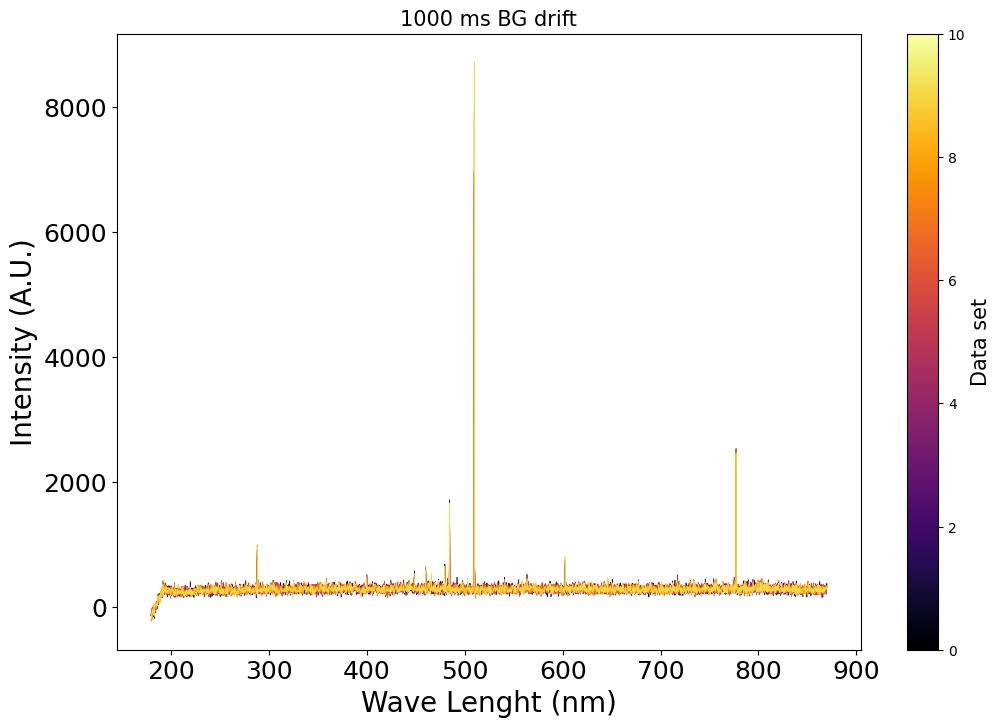
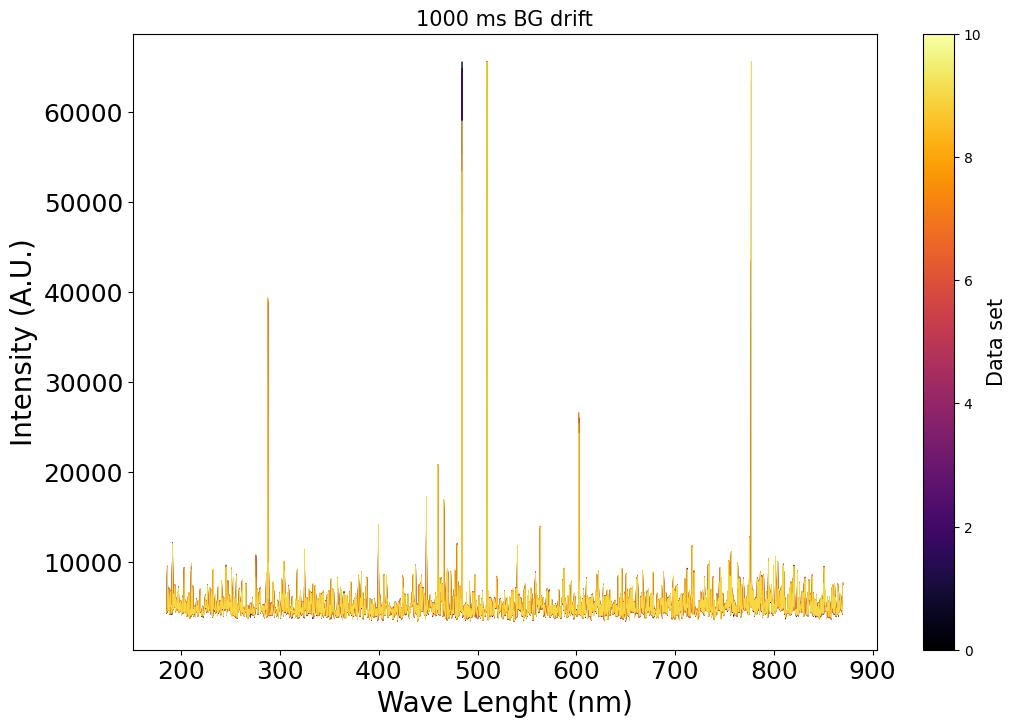
Saving para ver si funciona bien

diff --git a/BG Analysis/BG Analisis.py b/BG Analysis/BG Analisis.py
@@ -2,182 +2,23 @@
 
 import os
 import re
-import matplotlib.pyplot as plt
+from glob import glob
 import numpy as np
 import pandas as pd
-import math as math
-from glob import glob
-from scipy.stats import norm
-from scipy.optimize import curve_fit
+import DataSorting as DS
+from DataSorting import landau, gaussian
 
-#%% 
+Rutas=glob(r'C:\Users\genar\Documents\CERN Summer 2025\Carpeta para CERNbox\Spectra_2025_Pablo_Raul_Genaro\CF4\100\40kV40mA\1_test\DataBG\Data0.txt')
 
-dataset_title='100 ms'
+mean_per_channel = DS.Reader(Rutas)[0]
+std_per_channel = DS.Reader(Rutas)[1]
 
-def gaussian(x, mu, sigma):
-    return (1 / (sigma * np.sqrt(2 * np.pi))) *np.exp(- (x - mu)**2 
-                                                       / (2 * sigma**2))
-
-# -------------------------- DATA SORTING ----------------------------
-# Data sorting
-
-Rutas=glob(r'C:\Users\genar\Documents\CERN Summer 2025\Carpeta para CERNbox\Spectra_2025_Pablo_Raul_Genaro\CF4\1\1_bar\0V\test_pure\DataBG\*.txt')
-
-Count_List=[]
-Lambda_List=[]
-Indice= 0
-
-for ruta in Rutas:
-
-  data_list=[]
-
-  array= pd.read_csv(ruta, names=['Lambda', 'Counts'], sep='\s+', 
-                     header=None, engine='python')
-
-  Colum_Cuentas=array['Counts']
-  Colum_Lambda=array['Lambda'] 
-
-  Count_List+=[Colum_Cuentas]
-  Lambda_List+=[Colum_Lambda]
-
-  Indice += 1
+print(DS.Reader(Rutas)[2])
 
 
-#%%
+DS.Histo(mean_per_channel, landau, [100,100,1], 500, 
+      'Counts BG', color = 'blue', lim = True, 
+      x_min= -1000, x_max=5000)
 
-mean_per_channel=[]
-std_per_channel=[]
-
-for j in np.arange(0,2048):
-
-  lista=[]
-
-  for i in np.arange(0,len(Count_List)):
-
-    lista.append(Count_List[i][j])
-    
-  mean_per_channel.append(np.mean(lista))
-  std_per_channel.append(np.std(lista))
-
-channels=Lambda_List[0]
-
-mean_per_channel
-
-
-#%%
-# ------------------ STATISTICAL ANALYSIS ---------------------
-
-
-# For each data set (exposure time sorted), must create an histogram for
-# the STD variance per channel, that means, create an histogram for each
-# std_per_chanel.
-
-min_value=min(std_per_channel)
-max_value=max(std_per_channel)
-
-plt.figure(figsize=(12,8))
-
-# Histogram configuration
-data= std_per_channel
-bins = 900                 # Number of bins
-range_values = (min_value, max_value) 
-density = True            # If True, histogram shows probability density instead of counts
-color = 'mediumorchid'     # Color of the bars
-alpha = 0.7                # Transparency (0 = transparent, 1 = solid)
-edgecolor = 'black'        # Color of the bar edges
-label = 'STD Data distribution'      # Legend label
-histtype = 'bar'           # Other options: 'step', 'stepfilled', 'barstacked'
-
-x_range = np.linspace(min_value, max_value, 10000)
-
-# Plotting the histogram
-counts, bins_edges, patches = plt.hist(
-    data, 
-    bins=bins, 
-    range=range_values, 
-    density=density, 
-    color=color, 
-    alpha=alpha, 
-    edgecolor=edgecolor, 
-    label=label, 
-    histtype=histtype
-)
-
-#Getting the Bin with max frecuency
-max_index = np.argmax(counts)
-max_bin_count = counts[max_index]
-
-# fitting the histogram
-
-bins_centers = 0.5 * (bins_edges[:-1] + bins_edges[1:])
-
-pop, cov = curve_fit(gaussian, bins_centers, counts, p0=[max_bin_count, 4])
-
-error=np.sqrt(np.diag(cov))
-
-plt.plot(bins_centers, gaussian(bins_centers, *pop), 
-         color='crimson', label=rf'$\mu$= {pop[0]:.2f}({error[0]:.2f}), $\sigma$= {pop[1]:.2f}({error[0]:.2f})',
-         linewidth=4)
-
-# Add labels, title, legend
-plt.xlabel('Photon count', fontsize= 18)
-plt.ylabel('Frecency', fontsize= 18)
-plt.title(f'{dataset_title} STD Distribution', fontsize= 15)
-plt.tick_params(axis='both', which='major', labelsize=18)
-plt.legend(fontsize=15)
-plt.xlim(0,250)
-
-# plt.savefig(f'{dataset_title} STD Histogram.jpg', format='jpg',
-#             bbox_inches='tight')
-
-plt.show()
-
-#%%
-# --------- VALUES OF STD OUTSIDE THE MAIN DISTRIBUTION --------------
-
-
-sorted_std_per_channel=std_per_channel.copy()
-
-sorted_std_per_channel.sort(reverse=True)
-
-
-V1_std=sorted_std_per_channel[0] # Maximo valor
-V2_std=sorted_std_per_channel[1] # Segundo Maximo valor
-
-Index_1_std=std_per_channel.index(V1_std)
-Index_2_std=std_per_channel.index(V2_std)
-
-C1=channels[Index_1_std]
-C2=channels[Index_2_std]
-
-M1=mean_per_channel[Index_1_std]
-M2=mean_per_channel[Index_2_std]
-
-print('The value of ', round(V1_std,3), ' is on the ', C1, ' nm')
-print('The value of ', round(V2_std,3), ' is on the ', C2, ' nm')
-
-
-# -------------------------- PLOTTING -------------------------------
-
-plt.figure(figsize=(12,8))
-plt.errorbar(channels, mean_per_channel, fmt='.', 
-             color='darkgoldenrod', yerr=std_per_channel,
-             ecolor='mediumorchid', elinewidth=0.5, 
-             capsize=5, capthick=0.5, 
-            errorevery=1, alpha=0.9,
-            label='Mean count')
-
-# plt.scatter(C1, M1, marker='o', s=60, c='red', label='Point w/ Bigger STD {M1}')
-plt.scatter(C2, M2, marker='o', s=60, c='red')
-
-plt.xlabel('Wave Lenght (nm)', fontsize=20)
-plt.ylabel('Intensity (A.U.)', fontsize=20)
-plt.tick_params(axis='both', which='major', labelsize=18)
-plt.title(f'{dataset_title} Mean Histogram', fontsize=20)
-
-plt.legend(fontsize=18)
-
-plt.savefig(f'{dataset_title} Mean Histogram.jpg', format='jpg',
-            bbox_inches='tight')
-
-plt.show()
+# DS.Histo(std_per_channel, gaussian, [50,20,1], 1000, 'STD BG', 
+#       color = 'orange', lim = True, x_min= -10, x_max=120)

diff --git a/BG Analysis/DataSorting.py b/BG Analysis/DataSorting.py
@@ -19,6 +19,10 @@ def landau(x, mpv, eta, A):
 
 def Reader(Rutas):
 
+  # Lo que hace este codigo es tomar una ruta, la misma en teoria posee
+  # varios archivos de BG. Al final toma el valor medio por canal y la
+  # desviacion estandar por canal.
+
   Count_List=[]
   Lambda_List=[]
   Indice= 0
@@ -54,7 +58,7 @@ def Reader(Rutas):
 
   channels=Lambda_List[0]
 
-  return mean_per_channel, std_per_channel, channels
+  return mean_per_channel, std_per_channel, Indice
 
 def Histo(list, distribution, p0, bins_value, Label_value, density = True,
     color = 'mediumorchid', color_plot = 'crimson', alpha = 0.7, edgecolor = 'black',      # Legend label
@@ -108,15 +112,3 @@ def Histo(list, distribution, p0, bins_value, Label_value, density = True,
         plt.xlim(x_min,x_max)
 
     plt.show()
-
-Rutas=glob(r'C:\Users\genar\Documents\CERN Summer 2025\Carpeta para CERNbox\Spectra_2025_Pablo_Raul_Genaro\CF4\1\1_bar\0V\test_pure\DataBG\*.txt')
-
-mean_per_channel = Reader(Rutas)[0]
-std_per_channel = Reader(Rutas)[1]
-
-Histo(mean_per_channel, landau, [4000,2000,1], 200, 
-      'Counts BG', color = 'blue', lim = True, 
-      x_min= 3000, x_max=10000)
-
-Histo(std_per_channel, gaussian, [50,20,1], 1000, 'STD BG', 
-      color = 'orange', lim = True, x_min= -10, x_max=120)
